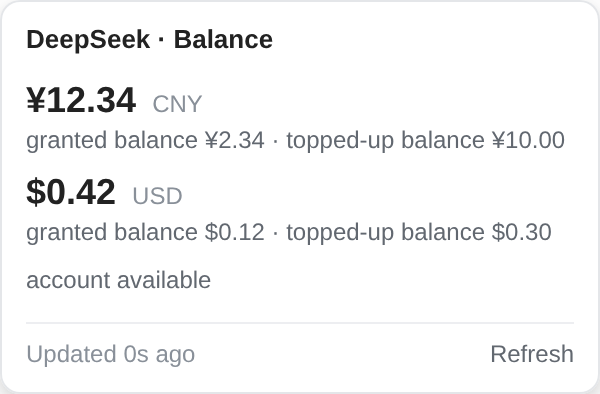
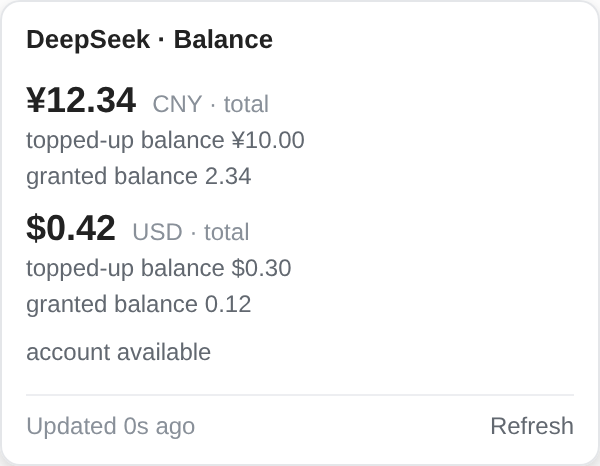
docs(readme): combine screenshots into one overview

diff --git a/README.md b/README.md
@@ -10,21 +10,7 @@ A responsive statusline for DeepSeek Harness (`dsh web`). Account quotas appear 
 
 ## Screenshots
 
-**Header quotas and DeepSeek peak indicator**
-
-<p><img src="docs/images/header-quotas.png" width="680" alt="Sample DeepSeek balance, Kimi Code subscription usage, DeepSeek peak countdown and sidebar indicator"></p>
-
-| Balance details | Peak indicator |
-| --- | --- |
-| <img src="docs/images/quota-panel.png" width="312" alt="DeepSeek balance details with separate CNY and USD balances and manual refresh"> | <img src="docs/images/peak-panel.png" width="312" alt="DeepSeek peak status, countdown, daily timeline and official rules link"> |
-
-**Session metrics**
-
-<p><img src="docs/images/bottom-bar.png" width="680" alt="Bottom status line: Git, context, TPS, cost, Subagents and tools"></p>
-
-| Reference cost | Subagent activity |
-| --- | --- |
-| <img src="docs/images/cost-panel.png" width="312" alt="Token and reference-cost breakdown"> | <img src="docs/images/subagents-panel.png" width="312" alt="Subagent activity"> |
+<p><img src="docs/images/overview.png" width="680" alt="Header quotas, session metrics and detail panels: DeepSeek balance, Kimi Code usage, peak countdown, API reference cost and subagent activity"></p>
 
 Screenshots use the actual UI with sample data, without account or conversation data.
 
@@ -123,7 +109,7 @@ An optional authorized, read-only live check requires an existing session: `npm 
 
 DSH 网页端状态行：顶部显示账号余额与套餐额度，输入区显示 Git、上下文、TPS、API 参考金额、子代理和工具活动。支持 DeepSeek、Kimi Code、Z.ai／智谱、Antigravity、Codex、OpenCode Go、OpenRouter，以及 DeepSeek 峰谷时段指示。
 
-**截图：** [额度与峰谷提示](docs/images/header-quotas.png)、[余额详情](docs/images/quota-panel.png)、[峰谷详情](docs/images/peak-panel.png)、[会话指标](docs/images/bottom-bar.png)、[设置选项](docs/images/settings.png)。截图使用英文界面与演示数据，不包含真实账号或对话数据。
+**截图：** [总览（额度、峰谷、会话指标与详情面板）](docs/images/overview.png)、[设置选项](docs/images/settings.png)。截图使用英文界面与演示数据，不包含真实账号或对话数据。
 
 **安装：** 需要 DSH 0.2.0-rc.2 或更高版本，不设上限，升级 DSH 不会让插件被跳过；已在 0.2.0-rc.2 与 0.2.1-rc.2 上测试，使用上面的安装命令；插件自带预构建文件和注册配置。启用 HMR 后，插件启停与设置实时生效；本地源码目录纳入监听时也可热加载，之后刷新浏览器。安装或升级提示 `restart-required` 时，才需等待无活跃会话后重启。旧版手动安装请先移除 `@local/dsh-statusline-plus` 注册行和依赖，避免重复。
 
